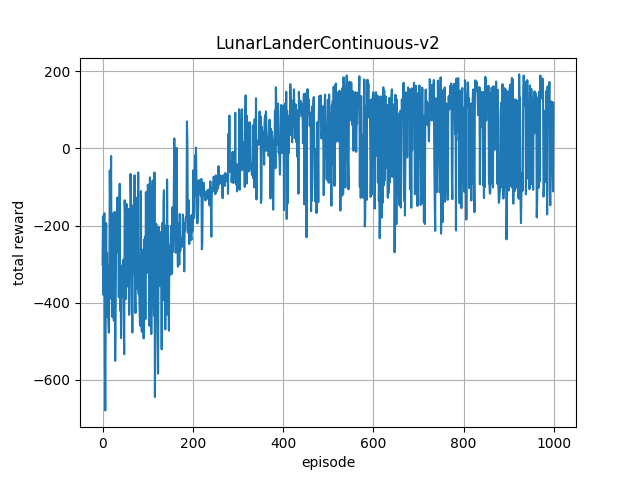
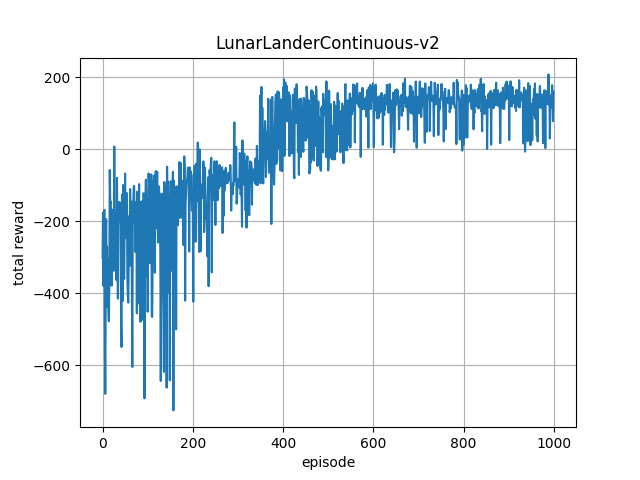
New baseline.

diff --git a/test/agent/test_ppo.py b/test/agent/test_ppo.py
@@ -1,17 +1,18 @@
 import gym
 import matplotlib.pyplot as plt
+import numpy as np
 import torch
 
 from self_driving_car.agent import PPOAgent
-from self_driving_car.policy.shared import CNNPolicy
-# from self_driving_car.policy.shared import MLPPolicy
-import numpy as np
+# from self_driving_car.policy.shared import CNNPolicy
+from self_driving_car.policy.shared import MLPPolicy
+
 SEED = 123
 
 
 def main():
-    env = gym.make('CarRacing-v0')
-    # env = gym.make('LunarLanderContinuous-v2')
+    # env = gym.make('CarRacing-v0')
+    env = gym.make('LunarLanderContinuous-v2')
     env.seed(SEED)
 
     inputs = env.observation_space.shape
@@ -19,25 +20,21 @@ def main():
 
     torch.manual_seed(SEED)
 
-    agent = PPOAgent(CNNPolicy, inputs, outputs, horizon=128, lr=2.5e-4, num_epoch=4, batch_size=4, clip_range=0.2)
+    # agent = PPOAgent(CNNPolicy, inputs, outputs, horizon=128, lr=2.5e-4, num_epoch=4, batch_size=4, clip_range=0.1)
     # agent = PPOAgent(CNNPolicy, inputs, outputs)
-    # agent = PPOAgent(MLPPolicy, inputs, outputs)
+    agent = PPOAgent(MLPPolicy, inputs, outputs)
 
     reward_history = []
     for i in range(1000):
         ob = env.reset()
-
-        ob = np.copy(ob)
-
         env.render()
-        action = agent.act(ob)
+        action = agent.act(np.copy(ob))
         total_reword = 0
         while True:
             ob, r, d, _ = env.step(action)
-            ob = np.copy(ob)
             total_reword += r
             env.render()
-            action = agent.act(ob, r, d)
+            action = agent.act(np.copy(ob), r, d)
             if d:
                 reward_history.append(total_reword)
                 print('- Done i:{}'.format(i))

diff --git a/self_driving_car/policy/shared.py b/self_driving_car/policy/shared.py
@@ -14,21 +14,15 @@ class CNNBase(nn.Module):
         self.conv1 = nn.Conv2d(3, 16, kernel_size=8, stride=4)
         self.conv2 = nn.Conv2d(16, 32, kernel_size=4, stride=2)
 
-        self.fc = nn.Linear(3200, 128)
+        self.fc = nn.Linear(3200, 256)
 
     def forward(self, x):
-        x = self.conv1(x)
-        x = F.relu(x)
+        h1 = F.relu(self.conv1(x))
+        h2 = F.relu(self.conv2(h1))
 
-        x = self.conv2(x)
-        x = F.relu(x)
+        h2 = h2.view(h2.size(0), -1)
 
-        x = x.view(x.size(0), -1)
-
-        x = self.fc(x)
-        x = F.relu(x)
-
-        return x
+        return F.relu(self.fc(h2))
 
 
 # TODO: why not converge...
@@ -38,9 +32,11 @@ class CNNPolicy(nn.Module):
 
         self.base_model = CNNBase(input_shape, output_shape)
 
-        self.mean_fc = nn.Linear(128, output_shape[0])
+        feature = self.base_model.fc.out_features
+
+        self.mean_fc = nn.Linear(feature, output_shape[0])
         self.std = nn.Parameter(torch.zeros(output_shape[0]))
-        self.value_fc = nn.Linear(128, 1)
+        self.value_fc = nn.Linear(feature, 1)
 
         # self.apply(self.init_weights)
 
@@ -48,14 +44,13 @@ class CNNPolicy(nn.Module):
         self.cuda()
 
     def forward(self, x):
-        x = self.base_model(x)
+        feature = self.base_model(x)
 
-        mean = self.mean_fc(x)
+        mean = self.mean_fc(feature)
+        value = self.value_fc(feature)
 
         log_std = self.std.expand_as(mean)
         std = torch.exp(log_std)
-
-        value = self.value_fc(x)
 
         return mean, std, value
 

diff --git a/self_driving_car/trainer.py b/self_driving_car/trainer.py
@@ -60,6 +60,27 @@ class Trainer(object):
         training_step = 0
         testing_step = 0
 
+        train_loader = torch.utils.data.DataLoader(
+            datasets.MNIST('../data',
+                           train=True,
+                           download=True,
+                           transform=transforms.Compose([
+                               transforms.ToTensor(),
+                               transforms.Normalize((0.1307,), (0.3081,))
+                           ])),
+            batch_size=args.batch_size,
+            shuffle=True, **kwargs)
+
+        test_loader = torch.utils.data.DataLoader(
+            datasets.MNIST('../data',
+                           train=False,
+                           transform=transforms.Compose([
+                               transforms.ToTensor(),
+                               transforms.Normalize((0.1307,), (0.3081,))
+                           ])),
+            batch_size=args.test_batch_size,
+            shuffle=True, **kwargs)
+
         for _ in range(epochs):
             for states, actions in training_data_loader:
                 states_var = Variable(states)

diff --git a/test/test_trainer.py b/test/test_trainer.py
@@ -1,31 +1,8 @@
-import torch
-import torchvision.datasets as datasets
-import torchvision.transforms as transforms
-
 from self_driving_car.trainer import Trainer
 
 
 def main():
-    train_loader = torch.utils.data.DataLoader(
-        datasets.MNIST('../data',
-                       train=True,
-                       download=True,
-                       transform=transforms.Compose([
-                           transforms.ToTensor(),
-                           transforms.Normalize((0.1307,), (0.3081,))
-                       ])),
-        batch_size=args.batch_size,
-        shuffle=True, **kwargs)
 
-    test_loader = torch.utils.data.DataLoader(
-        datasets.MNIST('../data',
-                       train=False,
-                       transform=transforms.Compose([
-                           transforms.ToTensor(),
-                           transforms.Normalize((0.1307,), (0.3081,))
-                       ])),
-        batch_size=args.test_batch_size,
-        shuffle=True, **kwargs)
 
     del env
 

diff --git a/self_driving_car/agent/ppo.py b/self_driving_car/agent/ppo.py
@@ -5,7 +5,7 @@ from torch.autograd import Variable
 from torch.distributions import Normal
 from torch.nn import SmoothL1Loss
 from torch.nn.utils import clip_grad_norm
-from torch.optim import Adam,Adadelta
+from torch.optim import Adam
 from torch.utils.data import DataLoader
 
 from .util import ReplayBuffer, TensorDataset, processing_image
@@ -123,7 +123,7 @@ class PPOAgent(object):
 
         dataset = TensorDataset(states_t, actions_old_t, advantages_t, values_target_t, log_probs_old_t, values_old_t)
 
-        data_loader = DataLoader(dataset, self.batch_size)
+        data_loader = DataLoader(dataset, self.batch_size, shuffle=True)
 
         for _ in range(self.num_epoch):
             for states_t, actions_old_t, advantages_t, values_target_t, log_probs_old_t, values_old_t in data_loader:

diff --git a/self_driving_car/agent/util.py b/self_driving_car/agent/util.py
@@ -2,11 +2,10 @@ from collections import deque
 
 import torch
 from torch.utils.data import Dataset
-from torchvision.transforms import Compose, CenterCrop, ToPILImage, ToTensor, Normalize
+from torchvision.transforms import Compose, ToTensor
 
 transform = Compose([
-    ToTensor(),
-    Normalize([0.485, 0.456, 0.406], [0.229, 0.224, 0.225])
+    ToTensor()
 ])
 
 

diff --git a/test/tool/test_communication.py b/test/tool/test_communication.py
@@ -1,8 +1,8 @@
+import random
 import time
 from multiprocessing import Process
 
 import numpy as np
-import random
 
 from self_driving_car.tool import Com
 

diff --git a/test/tool/test_dashboard.py b/test/tool/test_dashboard.py
@@ -1,5 +1,6 @@
-import numpy as np
 import random
+
+import numpy as np
 
 from self_driving_car.tool.dashboard import Dashboard
 

diff --git a/README.md b/README.md
@@ -1,21 +1,15 @@
 # Self Driving Car (Unfinished)
 A self-driving model car running reinforcement learning algorithms implemented in PyTorch.
-
 ## 1. Result
-
 ### 1.1 gym environment:
 <img src="image/result1.png" align="middle" width="3000"/>
 
 ### 1.2 Real track:
-
 ## 2. Setup
-
 ### 2.1. Hardware:
-pic
 
 ### 2.2. Software:
 Install dependencies according to [rpi_requirements.txt](rpi_requirements.txt) and [requirements.txt](requirements.txt).
-
 ## 3. Run
 On Pi:
 
@@ -40,8 +34,6 @@ On PC:
 [Proximal Policy Optimization Algorithms](https://arxiv.org/abs/1707.06347)
 
 [openai/baselines](https://github.com/openai/baselines)
-
 ## License
-This project is released under MIT License.
-Please review [License](LICENSE) file for more details.
+This project is released under MIT License. Please review [License](LICENSE) file for more details.
 
